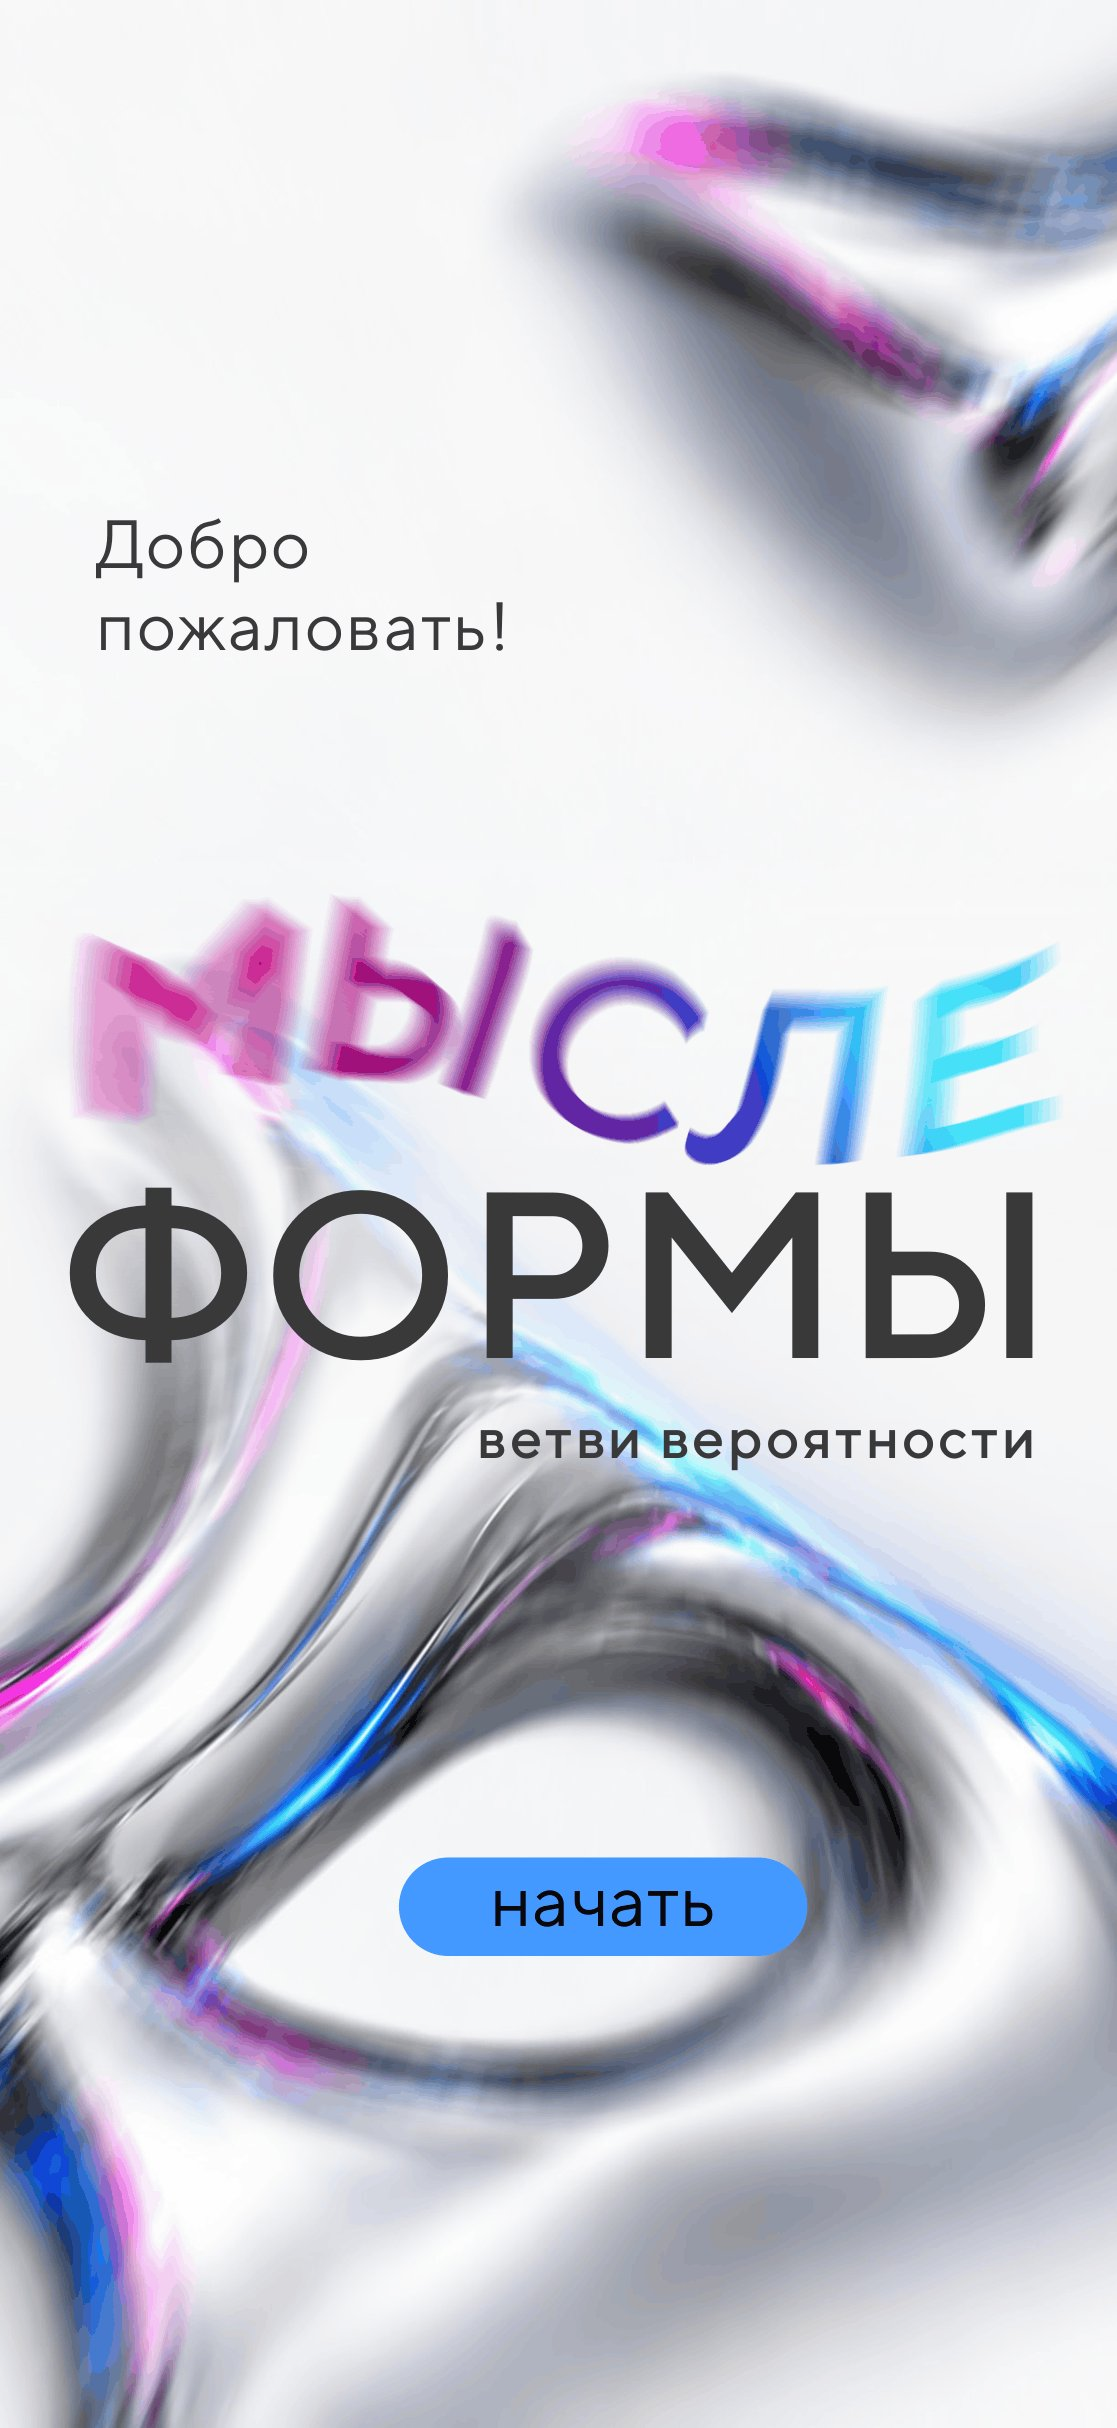
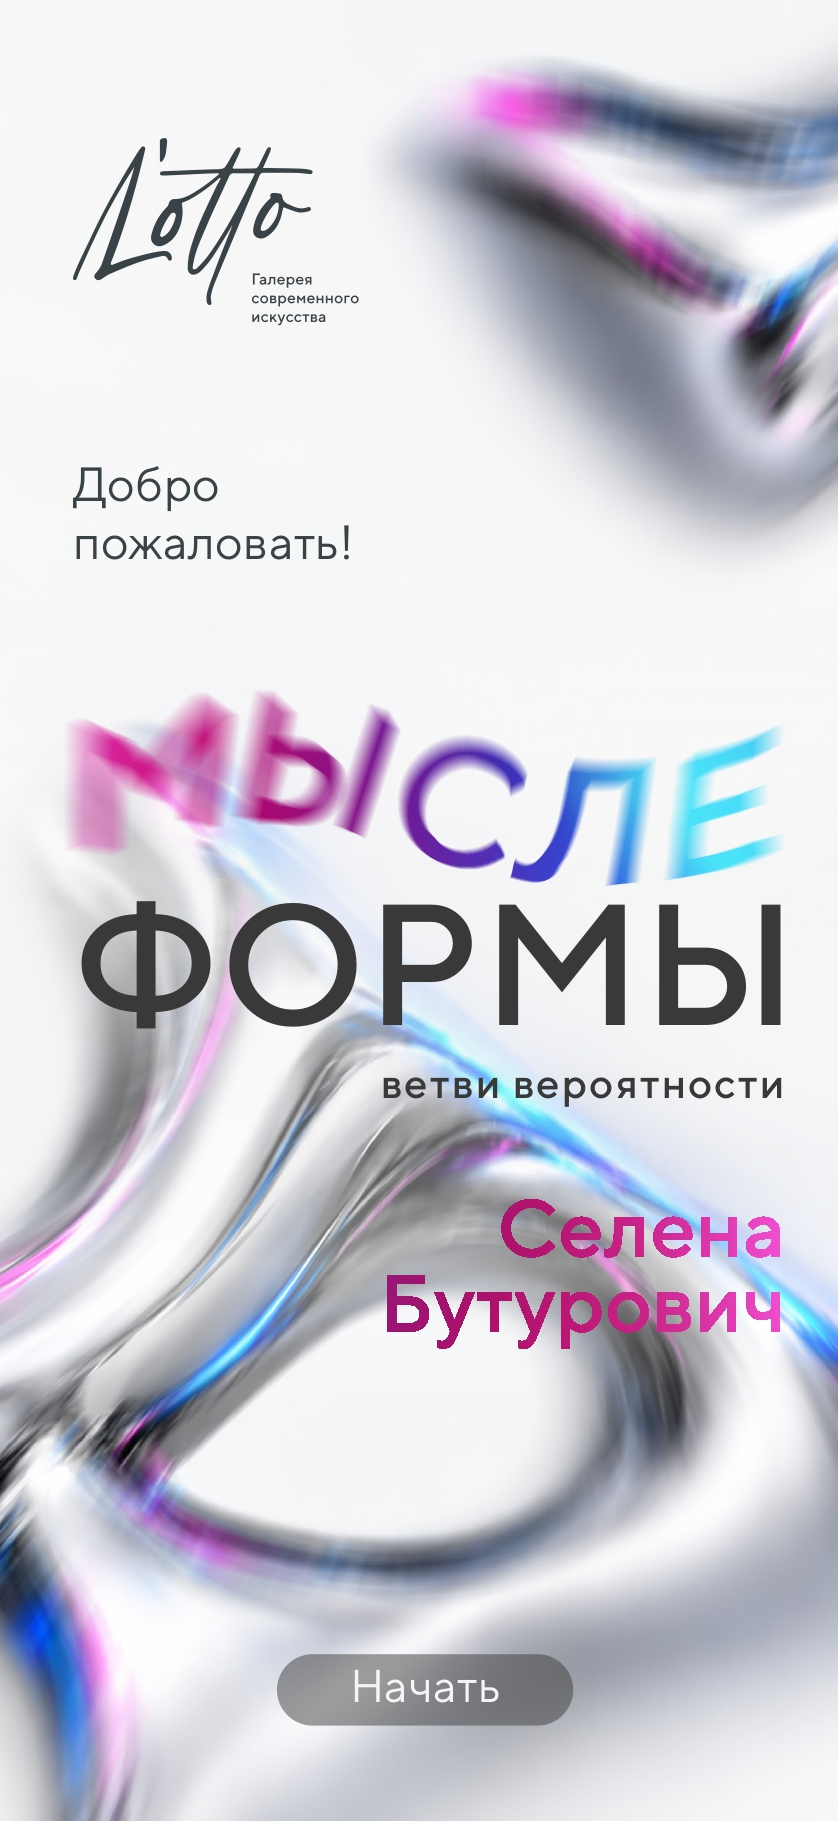
Add files via upload

diff --git a/index.html b/index.html
@@ -100,6 +100,7 @@
     const SAY_MS = 2200;      // сколько висит «Мысль проявлена»
     const FINAL_MS = 4000;    // сколько висит «Все мысли проявлены!»
     const HINT_MIN_MS = 2500; // минимум времени показа подсказки
+    const SOUND = false;      // видео без звука: так оно запускается на любых телефонах
 
     /* Картины В ТОМ ПОРЯДКЕ, в каком они в targets.mind (первая = 0).
        video — файл ролика
@@ -177,6 +178,32 @@
       fades[i] = requestAnimationFrame(step);
     }
 
+    /* Запуск видео. Если браузер не разрешил — повторим при следующем касании экрана */
+    let pendingPlay = null;
+    function playSafe(v) {
+      const pr = v.play();
+      if (pr && pr.catch) pr.catch(() => { pendingPlay = v; dbg('play() отклонён: ' + v.id); });
+    }
+    addEventListener('touchstart', () => { if (pendingPlay) { playSafe(pendingPlay); pendingPlay = null; } }, { passive: true });
+
+    /* Отладка: откройте сайт с ?debug=1 — на экране появится служебная панель */
+    const DEBUG = QS.has('debug');
+    let dbgBox;
+    function dbg(msg) { if (DEBUG && dbgBox) dbgBox.textContent = (msg + '\n' + dbgBox.textContent).slice(0, 1500); }
+    if (DEBUG) {
+      dbgBox = document.createElement('pre');
+      dbgBox.style.cssText = 'position:fixed;top:0;left:0;right:0;max-height:40vh;overflow:hidden;margin:0;padding:6px;z-index:100;font:10px/1.3 monospace;color:#0f0;background:rgba(0,0,0,.7);pointer-events:none;white-space:pre-wrap';
+      document.body.appendChild(dbgBox);
+      dbg(navigator.userAgent);
+      addEventListener('error', e => dbg('ERR: ' + e.message));
+      addEventListener('unhandledrejection', e => dbg('REJ: ' + (e.reason && (e.reason.message || e.reason))));
+      setInterval(() => {
+        const st = videos.map((v, k) => k + ':' + v.readyState + (v.paused ? 'P' : '>') + (v.error ? 'E' + v.error.code : '') + ' ' + (v.videoWidth || 0) + 'x' + (v.videoHeight || 0)).join(' | ');
+        dbgBox.textContent = dbgBox.textContent.split('\n').filter(l => !l.startsWith('VIDEO ')).join('\n');
+        dbgBox.textContent = 'VIDEO ' + st + '\n' + dbgBox.textContent;
+      }, 700);
+    }
+
     function renderDots() {
       $('dots').innerHTML = Array.from({ length: GOAL }, (_, k) =>
         '<span class="d' + (k < found.size ? ' full' : '') + '"></span>').join('');
@@ -199,8 +226,12 @@
     /* Создаём видео и якоря для каждой картины */
     PAINTINGS.forEach((p, i) => {
       const v = document.createElement('video');
-      v.id = 'video' + i; v.src = p.video; v.loop = true; v.preload = 'auto';
-      v.crossOrigin = 'anonymous'; v.style.display = 'none';
+      v.id = 'video' + i; v.src = p.video; v.loop = true; v.preload = 'metadata';
+      v.crossOrigin = 'anonymous';
+      // не display:none — некоторые браузеры тогда не декодируют видео
+      v.style.cssText = 'position:fixed;left:0;top:0;width:2px;height:2px;opacity:.01;pointer-events:none;z-index:-1';
+      v.muted = !SOUND; v.defaultMuted = !SOUND; if (!SOUND) v.setAttribute('muted', '');
+      v.setAttribute('x5-playsinline', '');
       v.setAttribute('playsinline', ''); v.setAttribute('webkit-playsinline', '');
       document.body.appendChild(v); videos.push(v);
 
@@ -225,7 +256,7 @@
 
       target.addEventListener('targetFound', () => {
         visible++; fit(); setWait(false);
-        fadeTo(i, 0, 0); v.play(); fadeTo(i, 1, FADE_MS);
+        fadeTo(i, 0, 0); playSafe(v); fadeTo(i, 1, FADE_MS);
         if (!found.has(i)) {
           found.add(i); renderDots();
           if (found.size >= GOAL) say('Все мысли<br>проявлены!', FINAL_MS);
@@ -241,8 +272,8 @@
     renderDots();
 
     /* Невидимая кнопка ставится ровно поверх нарисованной кнопки «начать» на картинке */
-    const BG = { w: 1117, h: 2428 };                    // размер bg_start.jpg
-    const BTN = { x: 400, y: 1858, w: 407, h: 97 };     // где кнопка на картинке
+    const BG = { w: 838, h: 1821 };                     // размер bg_start.jpg
+    const BTN = { x: 270, y: 1645, w: 310, h: 90 };     // где кнопка «Начать» на картинке
     function placeStart() {
       if ($('start').classList.contains('nobg')) return;
       const k = innerWidth / BG.w, top = (innerHeight - BG.h * k) / 2;
@@ -256,7 +287,6 @@
 
     /* Кнопка «начать» */
     $('startBtn').addEventListener('click', () => {
-      videos.forEach(v => v.play().then(() => v.pause()).catch(() => {})); // разрешаем видео на iOS
       $('start').classList.add('off');
       $('hint').classList.remove('off');
       const t0 = Date.now();
@@ -269,7 +299,8 @@
             setWait(true);
           }, Math.max(0, HINT_MIN_MS - (Date.now() - t0)));
         } catch (e) {
-          $('hintErr').textContent = 'Не удалось включить камеру. Разрешите доступ в настройках браузера.';
+          $('hintErr').textContent = 'Не удалось включить камеру (' + (e && (e.name || e.message) || e) + '). Разрешите доступ к камере в настройках браузера.';
+          dbg('START: ' + (e && (e.stack || e.message || e)));
         }
       };
       scene.hasLoaded ? go() : scene.addEventListener('loaded', go);
